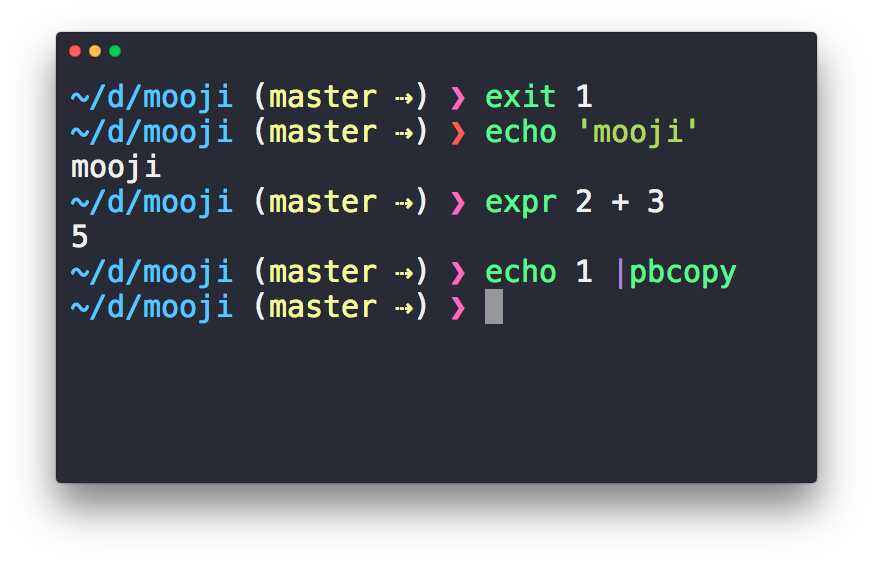
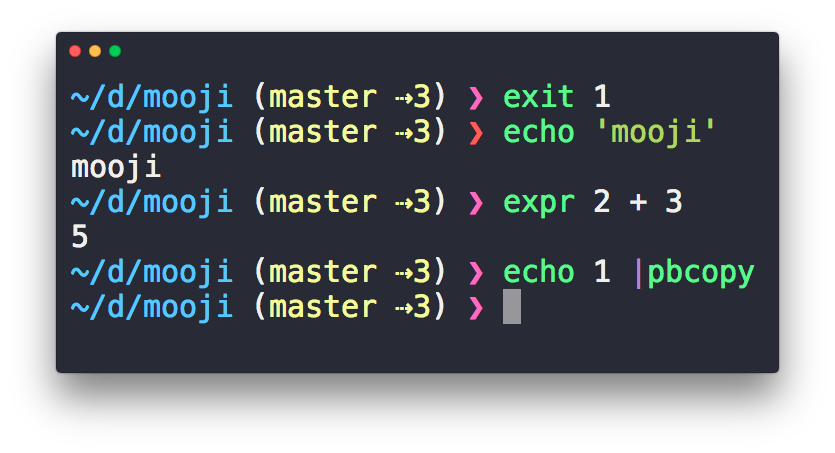
Add info to prompt
Add char for untracked files.
Setting show_informative_status in fish gives information about file count.

Changed region(s): [[0.0623, 0.0309, 0.9653, 0.9272], [0.7162, 0.5563, 0.903, 0.649], [0.9341, 0.0927, 0.9653, 0.1854]]

diff --git a/README.md b/README.md
@@ -4,6 +4,10 @@
 
 <img src="screenshot.png" width="864">
 
+## Requirements
+
+- [fish](https://github.com/fish-shell/fish-shell) - Tested with v3
+
 ## Installation
 
    ```sh
